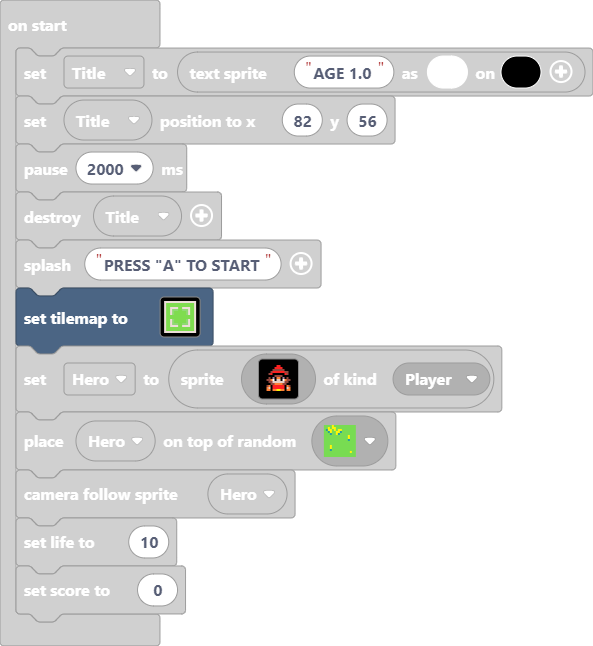
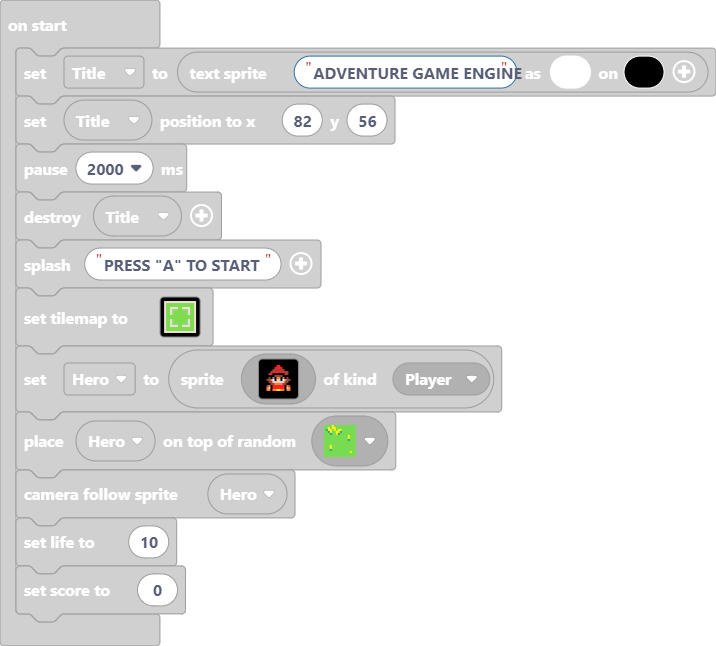
Update main.blocks, main.ts

Changed region(s): [[0.0, 0.031, 0.8499, 1.0], [0.2125, 0.0, 1.0, 0.2477]]

diff --git a/main.ts b/main.ts
@@ -329,7 +329,7 @@ controller.down.onEvent(ControllerButtonEvent.Pressed, function () {
     )
 })
 let Hero: Sprite = null
-let Title = textsprite.create("AGE 1.0")
+let Title = textsprite.create("ADVENTURE GAME ENGINE")
 Title.setPosition(82, 56)
 pause(2000)
 Title.destroy()
